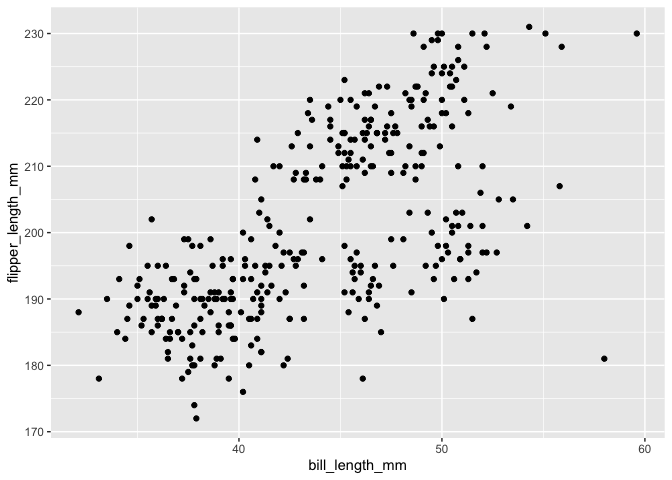
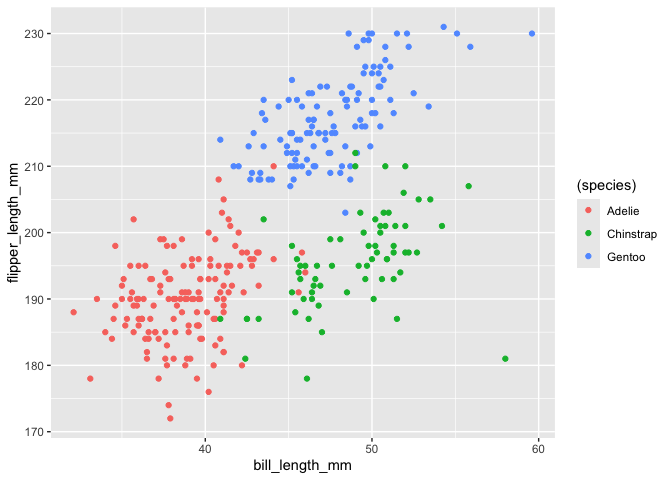
Problem 1 completed

diff --git a/p8105_hw1_sy3269.md b/p8105_hw1_sy3269.md
@@ -1,7 +1,7 @@
 p8105_hw1_sy3269
 ================
 Soomin You
-2024-09-13
+2024-09-18
 
 ## Problem 0.1 and 0.2
 
@@ -20,29 +20,32 @@ data("penguins", package = "palmerpenguins")
 p_variable = names(penguins)
 p_row = nrow(penguins)
 p_col = ncol(penguins)
+
+p_species = count(penguins, species)
 ```
 
-There are 8 variables in penguins dataset.
+There are 8 variables in penguins dataset and the names are species,
+island, bill_length_mm, bill_depth_mm, flipper_length_mm, body_mass_g,
+sex, year.
 
-Names of the variables are species, island, bill_length_mm,
-bill_depth_mm, flipper_length_mm, body_mass_g, sex, year.
+There are 3 species in the dataset and the names are Adelie, Chinstrap,
+Gentoo.
 
 There are 344 rows and 8 columns.
 
 ``` r
-p_flipper = na.omit(penguins$flipper_length_mm)
-mean_p_flipper = mean(p_flipper)
+p_clean = na.omit(penguins)
+mean_p_flipper = mean(p_clean[["flipper_length_mm"]])
 ```
 
-The mean flipper length of this penguin dataset is 200.9152047 mm.
+Missing data were removed first to make a clean penguins dataset. Then
+the mean flipper length of the clean dataset was found to be 200.966967
+mm.
 
 ``` r
-ggplot(penguins, aes(x = bill_length_mm, y = flipper_length_mm)) + 
+ggplot(p_clean, aes(x = bill_length_mm, y = flipper_length_mm, color = (species))) + 
   geom_point()
 ```
-
-    ## Warning: Removed 2 rows containing missing values or values outside the scale range
-    ## (`geom_point()`).
 
 ![](p8105_hw1_sy3269_files/figure-gfm/plot-1.png)<!-- -->
 
@@ -52,10 +55,6 @@ ggsave("penguin scatterplot.pdf")
 
     ## Saving 7 x 5 in image
 
-    ## Warning: Removed 2 rows containing missing values or values outside the scale range
-    ## (`geom_point()`).
-
-This is a scatterplot of the penguins dataset where x = bill_length_mm
-and y = flipper_length_mm.
-
-The color will be added later.
+This is a scatterplot of the clean penguins dataset where x =
+bill_length_mm and y = flipper_length_mm. The different species are
+noted in different colors.
